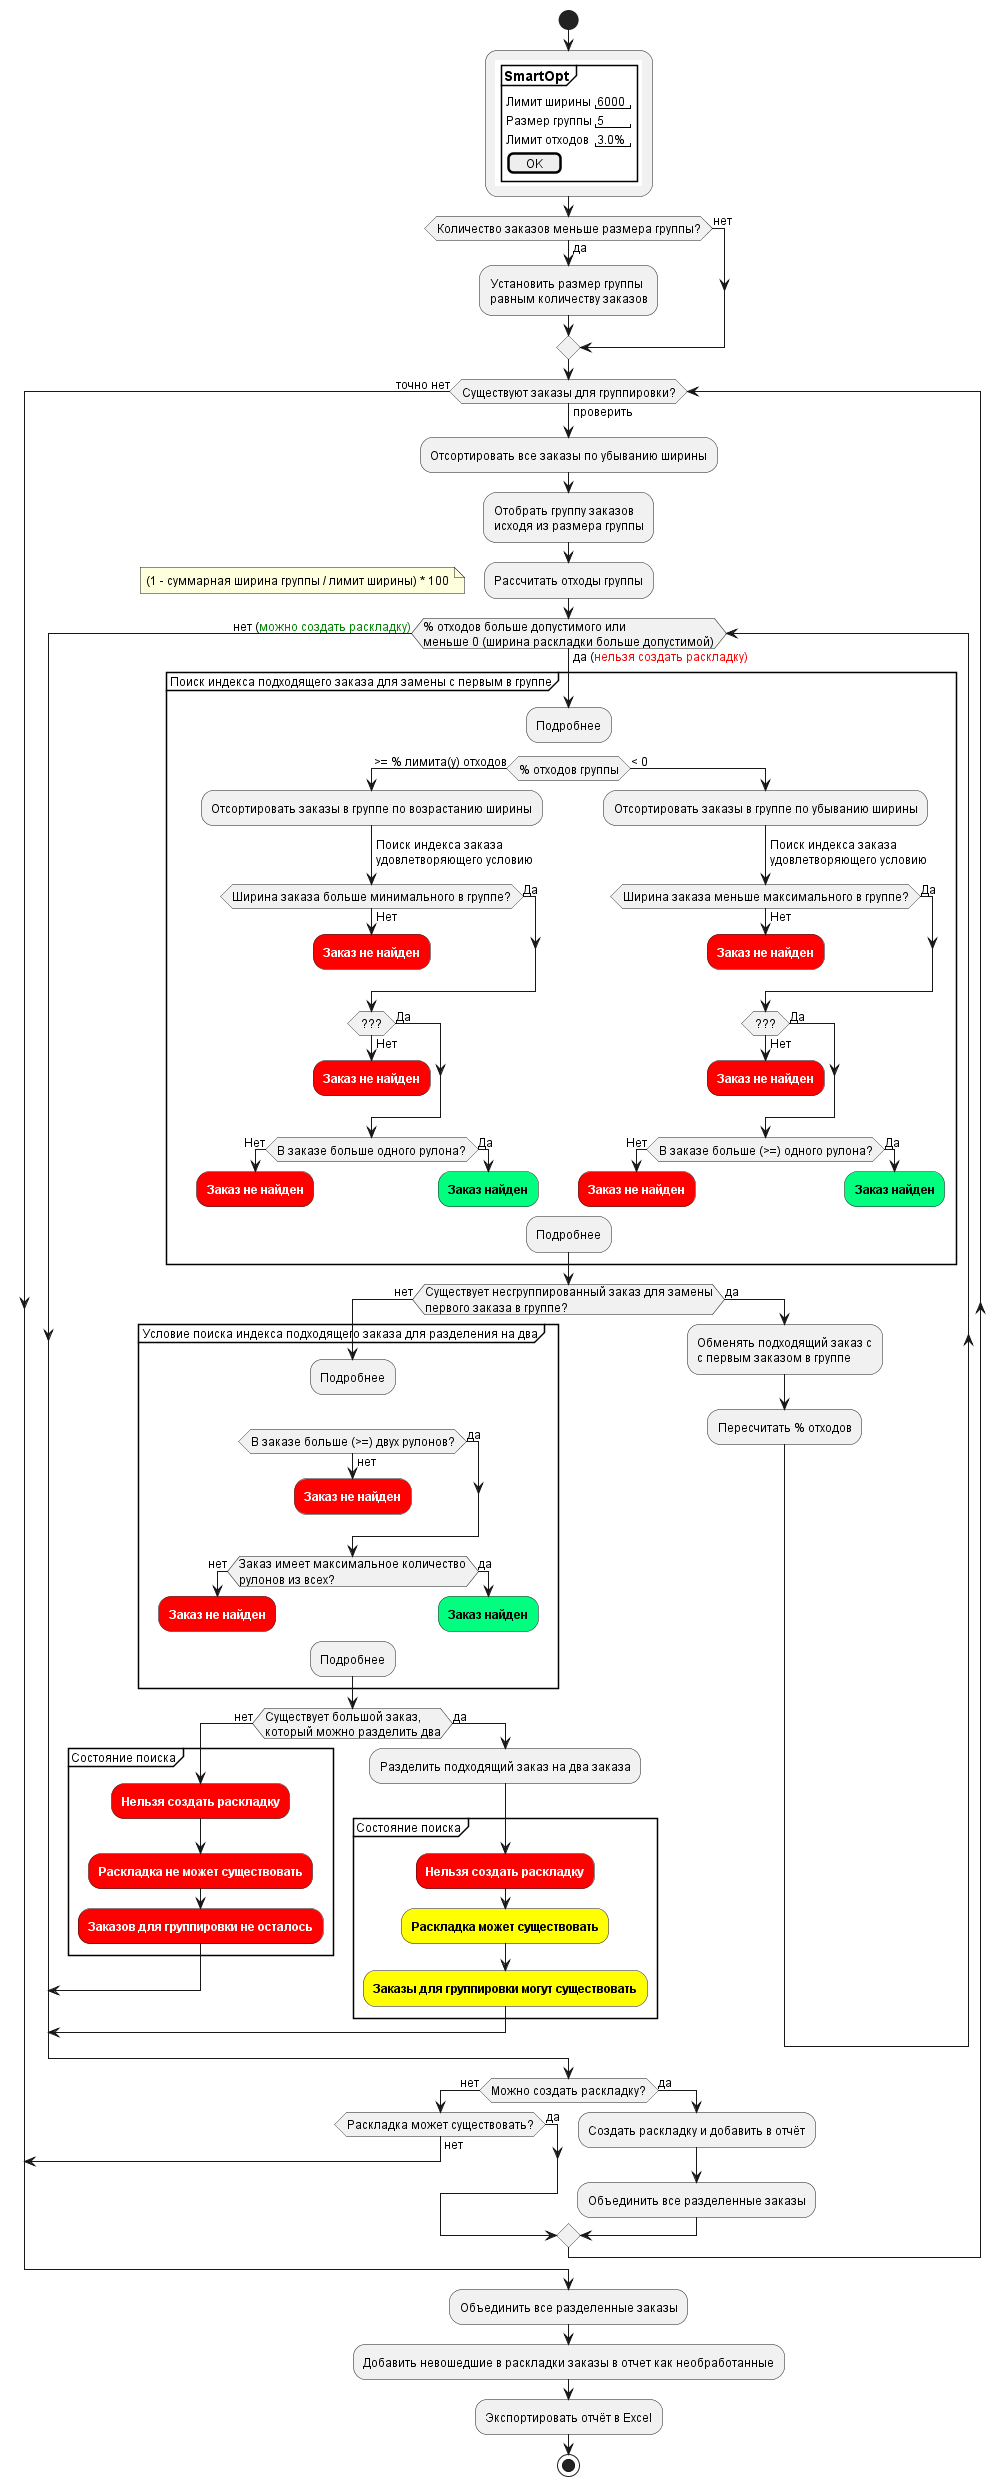
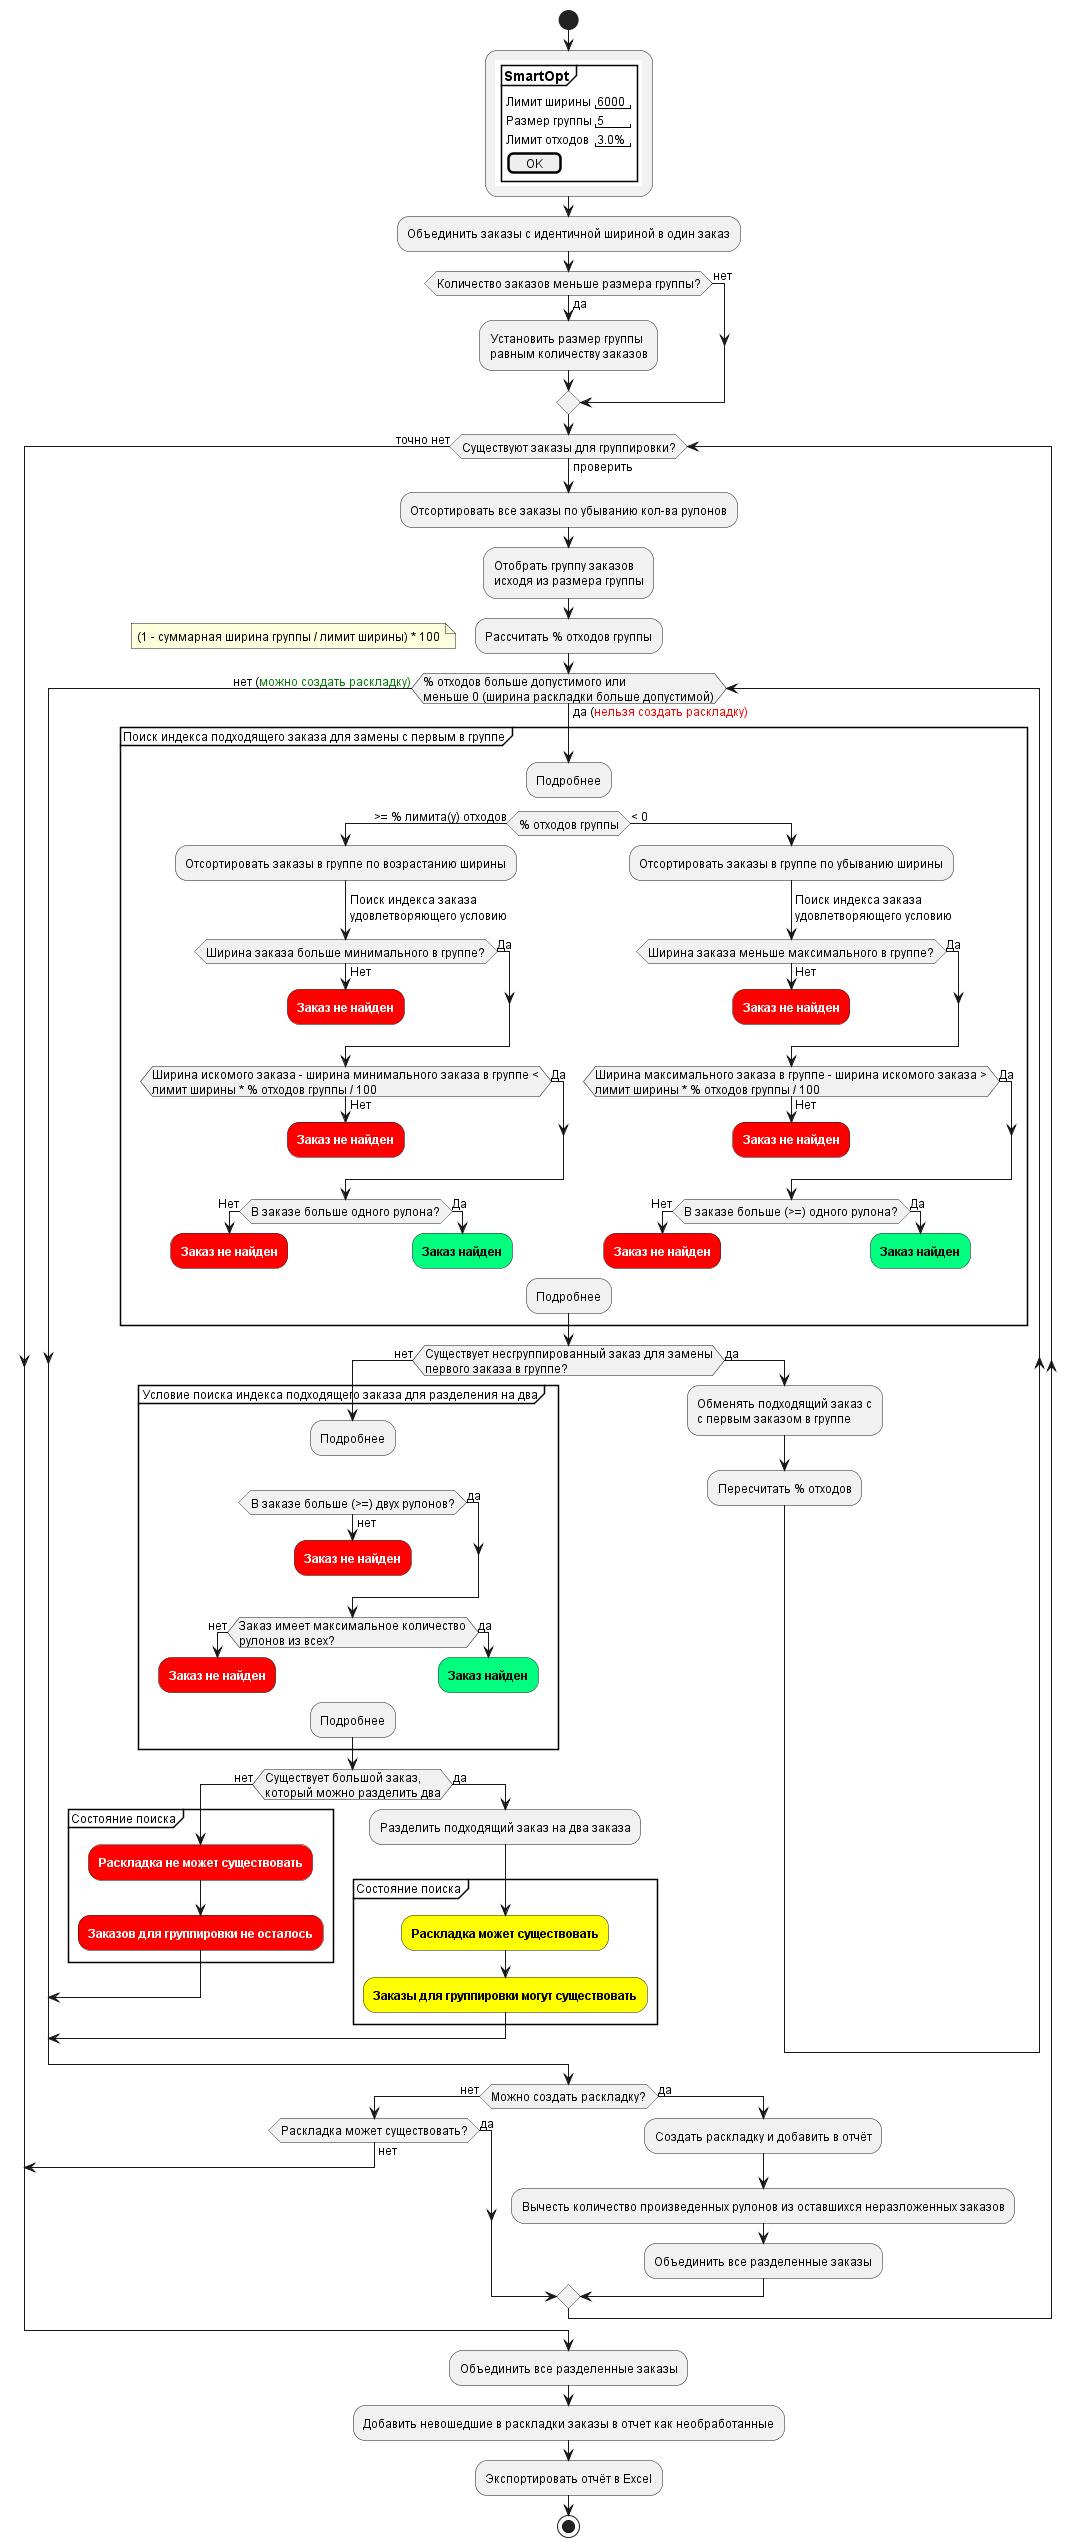
1

Changed region(s): [[0.0308, 0.0, 0.9871, 1.0], [0.0, 0.4956, 0.0617, 0.5575], [0.0, 0.8363, 0.0308, 0.8982]]

diff --git a/SmartOpt.Modules.PatternLayoutsGenerator/Services/Implementations/OrderInfoParser.cs b/SmartOpt.Modules.PatternLayoutsGenerator/Services/Implementations/OrderInfoParser.cs
@@ -1,5 +1,6 @@
 using System;
 using System.Collections.Generic;
+using System.IO;
 using System.Linq;
 using System.Runtime.InteropServices;
 using ClosedXML.Excel;
@@ -38,16 +39,20 @@ public class OrderInfoParser : IOrderInfoParser
     
     private IList<OrderInfo> ParseOrdersFromExcelWorksheetInternal(string workbookFilepath)
     {
-        using var workbook = new XLWorkbook(workbookFilepath);
-        IXLWorksheet worksheet = workbook.Worksheets.First();
-
+        var tempFilepath = $"{Path.Combine(Path.GetDirectoryName(workbookFilepath), Path.GetFileNameWithoutExtension(workbookFilepath))}_temp{Path.GetExtension(workbookFilepath)}";
+        
         try
         {
+            File.Copy(workbookFilepath, tempFilepath, true);
+        
+            using var workbook = new XLWorkbook(tempFilepath);
+            IXLWorksheet worksheet = workbook.Worksheets.First();
+            
             IReadOnlyList<string> nameColumnValues = ParseColumn<string>(worksheet, 1, 3);
             IReadOnlyList<int> widthColumnValues = ParseColumn<int>(worksheet, 3, 3);
-            IReadOnlyList<int> requestKilosColumnValues = ParseColumn<int>(worksheet, 4, 3);
-            IReadOnlyList<double> doneKilosColumnValues = ParseColumn<double>(worksheet, 5, 3);
-            IReadOnlyList<int> unknownValuesColumnValues = ParseColumn<int>(worksheet, 13, 3);
+            // IReadOnlyList<int> requestKilosColumnValues = ParseColumn<int>(worksheet, 4, 3);
+            // IReadOnlyList<double> doneKilosColumnValues = ParseColumn<double>(worksheet, 5, 3);
+            // IReadOnlyList<int> unknownValuesColumnValues = ParseColumn<int>(worksheet, 13, 3);
             IReadOnlyList<double> countColumnValues = ParseColumn<double>(worksheet, 14, 3);
 
             OrderInfo[] orders = nameColumnValues.Select((name, i) =>
@@ -58,6 +63,14 @@ public class OrderInfoParser : IOrderInfoParser
         catch (Exception exception)
         {
             throw new InvalidOperationException("An unexpected error was occured while parsing", exception);
+        }
+        finally
+        {
+            var tempFile = new FileInfo(tempFilepath);
+            if (tempFile.Exists)
+            {
+                tempFile.Delete();
+            }
         }
     }
     
@@ -70,7 +83,7 @@ public class OrderInfoParser : IOrderInfoParser
     /// <typeparam name="T">Type of the column value</typeparam>
     /// <returns>The list of values of the parsed column </returns>
     /// <exception cref="InvalidOperationException">It's unable to read a value of the specified column</exception>
-    private IReadOnlyList<T> ParseColumn<T>(IXLWorksheet worksheet, int column, int rowOffset)
+    private static IReadOnlyList<T> ParseColumn<T>(IXLWorksheet worksheet, int column, int rowOffset)
     {
         IXLRangeRows visibleRows = worksheet.RangeUsed().Rows(row => !row.WorksheetRow().IsHidden);
 
@@ -84,7 +97,7 @@ public class OrderInfoParser : IOrderInfoParser
                 continue;
             }
 
-            var success = cell.TryGetValue<T>(out T value);
+            cell.TryGetValue(out T value);
 
             values.Add(value);
         }

diff --git a/TestConsole/Properties/AssemblyInfo.cs b/TestConsole/Properties/AssemblyInfo.cs
@@ -1,0 +1,35 @@
+using System.Reflection;
+using System.Runtime.InteropServices;
+
+// General Information about an assembly is controlled through the following 
+// set of attributes. Change these attribute values to modify the information
+// associated with an assembly.
+[assembly: AssemblyTitle("TestConsole")]
+[assembly: AssemblyDescription("")]
+[assembly: AssemblyConfiguration("")]
+[assembly: AssemblyCompany("")]
+[assembly: AssemblyProduct("TestConsole")]
+[assembly: AssemblyCopyright("Copyright ©  2022")]
+[assembly: AssemblyTrademark("")]
+[assembly: AssemblyCulture("")]
+
+// Setting ComVisible to false makes the types in this assembly not visible 
+// to COM components.  If you need to access a type in this assembly from 
+// COM, set the ComVisible attribute to true on that type.
+[assembly: ComVisible(false)]
+
+// The following GUID is for the ID of the typelib if this project is exposed to COM
+[assembly: Guid("4684E8EE-B6C8-4AE1-BA41-E6B7352C7BC7")]
+
+// Version information for an assembly consists of the following four values:
+//
+//      Major Version
+//      Minor Version 
+//      Build Number
+//      Revision
+//
+// You can specify all the values or you can default the Build and Revision Numbers 
+// by using the '*' as shown below:
+// [assembly: AssemblyVersion("1.0.*")]
+[assembly: AssemblyVersion("1.0.0.0")]
+[assembly: AssemblyFileVersion("1.0.0.0")]

diff --git a/SmartOpt.Modules.PatternLayoutsGenerator/Services/Implementations/PatternLayoutGenerator.cs b/SmartOpt.Modules.PatternLayoutsGenerator/Services/Implementations/PatternLayoutGenerator.cs
@@ -9,9 +9,11 @@ namespace SmartOpt.Modules.PatternLayoutsGenerator.Services;
 
 public class PatternLayoutGenerator : IPatternLayoutGenerator
 {
-    public Report GeneratePatternLayoutsFromOrders(IReadOnlyCollection<OrderInfo> orderInfos,
+    public Report GeneratePatternLayoutsFromOrders(IReadOnlyList<OrderInfo> orderInfos,
         int maxWidth, double maxWaste, int groupSize)
     {
+        orderInfos = AggregateOrdersWithIdenticalWidth(orderInfos);
+        
         if (orderInfos.Count < groupSize)
         {
             groupSize = orderInfos.Count;
@@ -161,5 +163,23 @@ public class PatternLayoutGenerator : IPatternLayoutGenerator
         }
 
         return index >= 0;
+    }
+    
+    private static IReadOnlyList<OrderInfo> AggregateOrdersWithIdenticalWidth(IReadOnlyList<OrderInfo> orders)
+    {
+        IEnumerable<int> elementsCount = orders
+            .Select(x => x.Width)
+            .Distinct();
+
+        return elementsCount
+            .Select(item => orders.Where(x => x.Width == item))
+            .Select(tmp => tmp.Aggregate((prev, next) =>
+            {
+                prev.Name += ", " + next.Name;
+                prev.RollsCount += next.RollsCount;
+                return prev;
+            }))
+            .ToList()
+            .AsIReadOnlyList();
     }
 }

diff --git a/SmartOpt.Modules.PatternLayoutsGenerator/Services/Implementations/PatternLayoutService.cs b/SmartOpt.Modules.PatternLayoutsGenerator/Services/Implementations/PatternLayoutService.cs
@@ -34,28 +34,11 @@ public class PatternLayoutService : IPatternLayoutService
     private Report GeneratePatternLayoutsFromExcelWorksheetInternal(
         IList<OrderInfo> orders, int maxWidth, double maxWaste, int groupSize)
     {
-        IReadOnlyList<OrderInfo> mergedOrders = AggregateOrdersWithIdenticalWidth(orders);
         Report report = _patternLayoutGenerator.GeneratePatternLayoutsFromOrders(
-            mergedOrders, maxWidth, maxWaste, groupSize);
+            orders.AsIReadOnlyList(), maxWidth, maxWaste, groupSize);
 
         return report;
     }
 
-    private static IReadOnlyList<OrderInfo> AggregateOrdersWithIdenticalWidth(IList<OrderInfo> orders)
-    {
-        IEnumerable<int> elementsCount = orders
-            .Select(x => x.Width)
-            .Distinct();
-
-        return elementsCount
-            .Select(item => orders.Where(x => x.Width == item))
-            .Select(tmp => tmp.Aggregate((prev, next) =>
-            {
-                prev.Name += ", " + next.Name;
-                prev.RollsCount += next.RollsCount;
-                return prev;
-            }))
-            .ToList()
-            .AsIReadOnlyList();
-    }
+    
 }

diff --git a/TestConsole/Program.cs b/TestConsole/Program.cs
@@ -1,0 +1,25 @@
+#nullable enable
+using System;
+using System.Runtime.InteropServices;
+using Microsoft.Office.Interop.Excel;
+
+namespace TestConsole
+{
+    internal class Program
+    {
+        public static void Main(string[] args)
+        {
+            object? excelCom = Marshal.GetActiveObject("Excel.Application");
+            if (excelCom == null)
+            {
+                throw new InvalidOperationException("Unable to connect with an active Excel application");
+            }
+
+            var application = (excelCom as Application)!;
+
+            Console.WriteLine(application.ActiveWorkbook.FullName);
+            
+            Marshal.ReleaseComObject(application);
+        }
+    }
+}

diff --git a/SmartOpt.Modules.PatternLayoutsGenerator.Tests/PatternLayoutServiceTests.cs b/SmartOpt.Modules.PatternLayoutsGenerator.Tests/PatternLayoutServiceTests.cs
@@ -80,7 +80,7 @@ namespace SmartOpt.Modules.PatternLayoutsGenerator.Tests
             );
 
             // Act
-            Report report = patternLayoutService.GeneratePatternLayoutsFromOrders(orders.AsIReadOnlyCollection(), maxWidth, maxWaste, groupSize);
+            Report report = patternLayoutService.GeneratePatternLayoutsFromOrders(orders.AsIReadOnlyList(), maxWidth, maxWaste, groupSize);
 
             // Assert
             AssertReportsAreEqual(expectedReport, report);

diff --git a/SmartOpt.Modules.PatternLayoutsGenerator/Services/Abstractions/Interfaces/IPatternLayoutGenerator.cs b/SmartOpt.Modules.PatternLayoutsGenerator/Services/Abstractions/Interfaces/IPatternLayoutGenerator.cs
@@ -5,6 +5,6 @@ namespace SmartOpt.Modules.PatternLayoutsGenerator.Services.Abstractions;
 
 public interface IPatternLayoutGenerator
 {
-    public Report GeneratePatternLayoutsFromOrders(IReadOnlyCollection<OrderInfo> orders,
+    public Report GeneratePatternLayoutsFromOrders(IReadOnlyList<OrderInfo> orders,
         int maxWidth, double maxWaste, int groupSize);
 }
